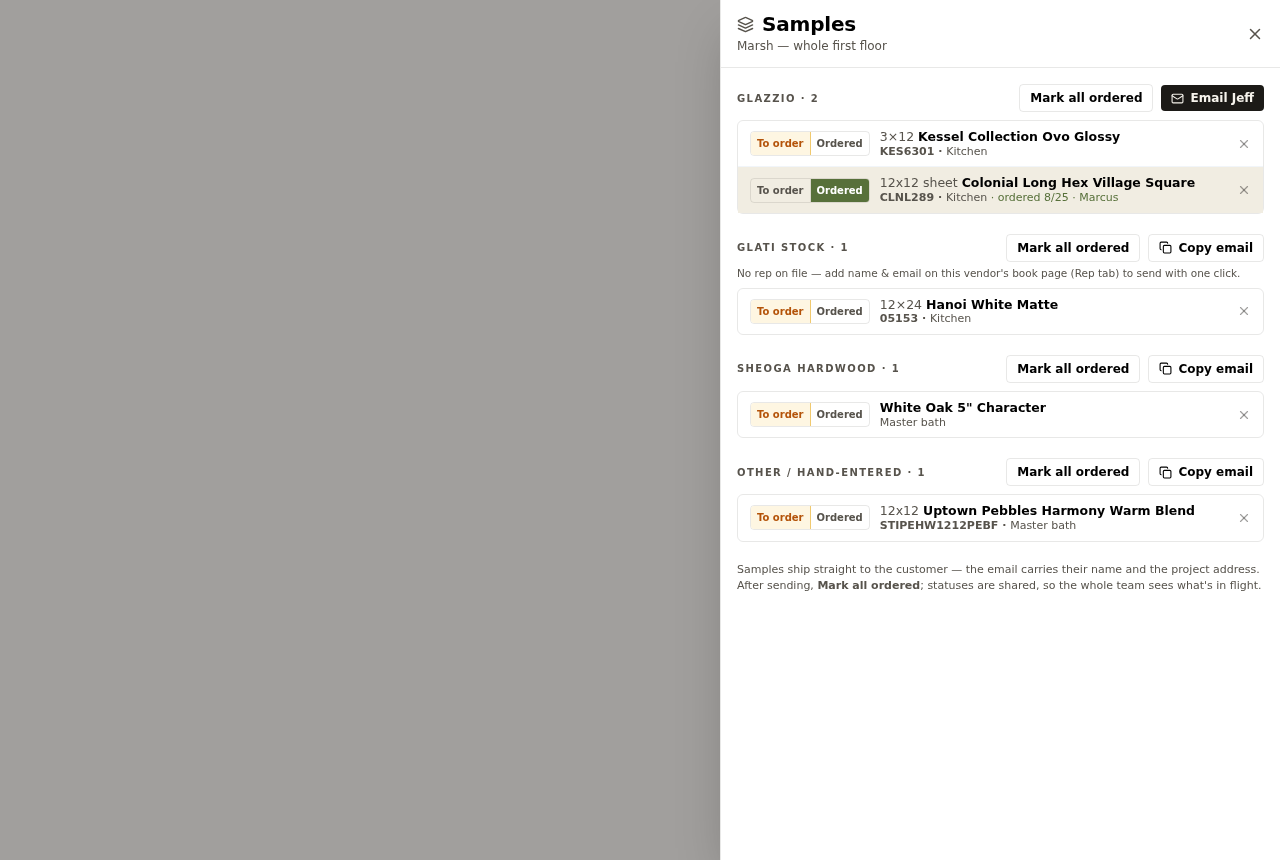
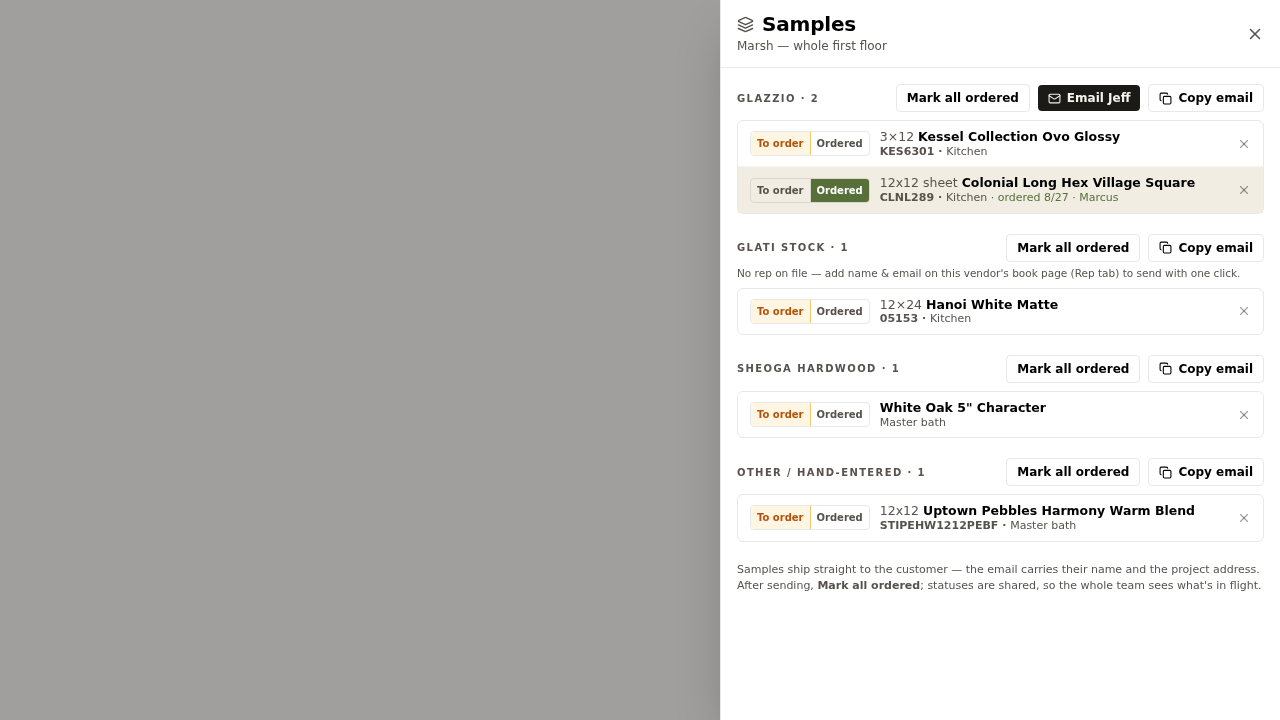
Final review fixes: copy-beside-email, ship-to fallback, projectId rename, mobile Samples tile
Whole-branch review findings 1/2/5/6/7/12 plus two owner calls: the panel
always offers Copy beside the rep mailto (spec §4), ship-to falls back to
the customer's mailing address and warns when there is none, the stored
request field is projectId (renamed while the table is empty), and the
phone's stat strip gains a Samples tile opening the panel.

Claude-Session: https://claude.ai/code/session_01Vet6o8t52237ktyVLVCXcs

diff --git a/src/App.jsx b/src/App.jsx
@@ -9,7 +9,7 @@ import { pricedItem, orderPatch, orderDrift, rowCostSqft, skuKeys } from "./orde
 import { OrderEntryPanel } from "./orderentry.jsx";
 import { isSpecialOrder, nameBudget, orderQty } from "./orderentry.js";
 import { SamplesPanel } from "./samples.jsx";
-import { requestFrom, sampleCounts, custSampleTally, SAMPLE_LABEL, SAMPLE_COLOR } from "./samples.js";
+import { requestFrom, sampleCounts, projectSampleTally, SAMPLE_LABEL, SAMPLE_COLOR } from "./samples.js";
 import { useSamples } from "./usesamples.js";
 import { tierView, tierUnitPrice, employeeNoCost, normPricing } from "./pricing.js";
 import { freightPrintRows, freightOrderRow, freightSummary, freightBookFor, rowFreightOn } from "./freight.js";
@@ -576,8 +576,11 @@ export default function App({ user, onSignOut }) {
   const [flagCtx, setFlagCtx] = useState(null);
   const flaggedRows = useMemo(() => new Set(claudeIssues.filter((i) => !i.done && i.source.productId).map((i) => i.source.productId)), [claudeIssues]);
   // This project's sample requests + a productId lookup for the row icons.
-  const projSamples = useMemo(() => sampleRequests.filter((r) => r.custId === selId), [sampleRequests, selId]);
+  const projSamples = useMemo(() => sampleRequests.filter((r) => r.projectId === selId), [sampleRequests, selId]);
   const sampleByProduct = useMemo(() => new Map(projSamples.map((r) => [r.productId, r])), [projSamples]);
+  // The customer browser's per-project roll-up (F6): recomputed only when the
+  // shared request list actually changes, not on every render of the browser.
+  const sampleTally = useMemo(() => projectSampleTally(sampleRequests), [sampleRequests]);
   const {
     labels, showApps, setShowApps,
     openApps, addLabel, addLabelsBulk, updateLabel, delLabel, saveLabelPreset,
@@ -1581,6 +1584,10 @@ export default function App({ user, onSignOut }) {
                       <button onClick={() => setProjSheet(true)} className={tile}><div className={tLbl}>Print</div><div className={tVal}>{sel.printPricing === "unit" ? "Unit $" : sel.printPricing === "none" ? "No $" : "All $"}</div></button>
                       <button onClick={() => setProjSheet(true)} className={tile}><div className={tLbl}>Files</div><div className={tVal}>{(sel.attachments || []).length}</div></button>
                       <button onClick={() => setShowVersions(true)} className={tile}><div className={tLbl}>Versions</div><div className={tVal}>{sel.versions?.length || 0}</div></button>
+                      <button onClick={() => { setShowSamples(true); refreshSampleRequests(); }} className={tile}>
+                        <div className={tLbl}>Samples</div>
+                        <div className={tVal} style={sampleCounts(projSamples).need > 0 ? { color: "#b45309" } : undefined}>{sampleCounts(projSamples).need || "—"}</div>
+                      </button>
                       {saveOk && <div className={tile}><div className={tLbl}>Sync</div><div className={tVal} style={{ color: "var(--ft-brand)" }}>Saved ✓</div></div>}
                     </div>
                     <MobileSheet open={projSheet} onClose={() => setProjSheet(false)} title={sel.name || "Untitled project"}
@@ -2111,7 +2118,7 @@ export default function App({ user, onSignOut }) {
                               )}
                               <div className="ft-noprint flex items-center justify-center gap-0.5" style={{ background: "var(--ft-area-row)" }}>
                                 {(() => { const sr = sampleByProduct.get(p.id); return sr && (
-                                  <button tabIndex={-1} onClick={() => setShowSamples(true)}
+                                  <button tabIndex={-1} onClick={() => { setShowSamples(true); refreshSampleRequests(); }}
                                     title={`Sample — ${SAMPLE_LABEL[sr.status]}${sr.status === "ordered" && sr.orderedAt ? " " + new Date(sr.orderedAt).toLocaleDateString(undefined, { month: "numeric", day: "numeric" }) : ""}. Click for the Samples panel.`}
                                     className="p-0.5" style={{ color: SAMPLE_COLOR[sr.status] }}><Layers size={11} /></button>
                                 ); })()}
@@ -2637,7 +2644,7 @@ export default function App({ user, onSignOut }) {
         <Suspense fallback={null}>
         <CustomerBrowser people={data.people} projects={data.projects} builders={data.builders}
           myName={profile.name || ""}
-          sampleTally={custSampleTally(sampleRequests)}
+          sampleTally={sampleTally}
           initialCols={appBlobRef.current?.ui?.browserCols}
           onColOrder={(order) => saveUiPref({ browserCols: order })}
           onClose={() => setShowBrowser(false)}
@@ -2909,7 +2916,7 @@ export default function App({ user, onSignOut }) {
         const cust = data.people.find((c) => c.id === sel.customerId);
         return (
           <SamplesPanel name={sel.name} requests={projSamples}
-            custInfo={{ custName: cust?.name || sel.name || "", address: sel.address || "", phone: sel.phone || cust?.phone || "" }}
+            custInfo={{ custName: cust?.name || sel.name || "", address: sel.address || cust?.address || "", phone: sel.phone || cust?.phone || "" }}
             repFor={(g) => books.find((b) => b.id === g.bookId)?.data?.rep || null}
             onOrdered={setSampleOrdered} onRemove={delSampleRequest}
             onClose={() => setShowSamples(false)} />

diff --git a/src/samples.test.js b/src/samples.test.js
@@ -2,7 +2,7 @@ import test from "node:test";
 import assert from "node:assert/strict";
 import { normA } from "./model.js";
 import {
-  normSampleRequest, requestFrom, sampleGroups, sampleCounts, custSampleTally,
+  normSampleRequest, requestFrom, sampleGroups, sampleCounts, projectSampleTally,
   repEmail, mailtoHref, SAMPLE_STATUSES, SAMPLE_LABEL,
 } from "./samples.js";
 
@@ -12,7 +12,7 @@ const BOOKS = [
 ];
 const req = (over = {}) => normSampleRequest({
   id: "r1", status: "need", createdBy: "Dana", createdAt: 1000,
-  custId: "c1", custName: "Kathy Marsh", areaName: "Kitchen", productId: "p1",
+  projectId: "c1", custName: "Kathy Marsh", areaName: "Kitchen", productId: "p1",
   bookId: "b1", bookName: "Glazzio", item: { name: "Calacatta Gold", sku: "CM1224", size: "12×24", type: "tile" },
   ...over,
 });
@@ -32,7 +32,7 @@ test("requestFrom: snapshots the line, resolves the vendor, stamps the creator",
   const product = { id: "p1", type: "tile", sku: "CM1224", brandColor: "Calacatta Gold", L: "12", W: "24", bookId: "b1" };
   const r = requestFrom({ project: { id: "c1" }, custName: "Kathy Marsh", area, areaIndex: 0, product, books: BOOKS, by: "Dana" });
   assert.equal(r.status, "need");
-  assert.equal(r.custId, "c1");
+  assert.equal(r.projectId, "c1");
   assert.equal(r.custName, "Kathy Marsh");
   assert.equal(r.areaName, "Kitchen");
   assert.equal(r.productId, "p1");
@@ -67,14 +67,14 @@ test("sampleGroups: groups by vendor in encounter order, Other last", () => {
   assert.equal(gs[0].bookId, "b1");
 });
 
-test("sampleCounts + custSampleTally", () => {
+test("sampleCounts + projectSampleTally", () => {
   const rows = [
     req({ id: "r1", status: "need" }),
-    req({ id: "r2", status: "ordered", custId: "c2" }),
+    req({ id: "r2", status: "ordered", projectId: "c2" }),
     req({ id: "r3", status: "ordered" }),
   ];
   assert.deepEqual(sampleCounts(rows), { need: 1, ordered: 2, total: 3 });
-  const tally = custSampleTally(rows);
+  const tally = projectSampleTally(rows);
   assert.deepEqual(tally.get("c1"), { need: 1, ordered: 1 });
   assert.deepEqual(tally.get("c2"), { need: 0, ordered: 1 });
   assert.deepEqual(sampleCounts([]), { need: 0, ordered: 0, total: 0 });

diff --git a/src/samples.jsx b/src/samples.jsx
@@ -39,15 +39,14 @@ function VendorGroup({ g, custInfo, rep, onOrdered, onRemove }) {
               Mark all ordered
             </button>
           )}
-          {rep?.email ? (
+          {rep?.email && (
             <a href={mailtoHref(rep.email, mail.subject, mail.body)}
               title={`Opens your mail program addressed to ${rep.email}:\n\n${mail.body}`}
               className="inline-flex items-center gap-1.5 rounded-md px-2.5 py-1 text-[12px] font-semibold bg-indigo-600 hover:bg-indigo-700 text-white">
               <Mail size={13} /> Email {rep.name ? rep.name.trim().split(/\s+/)[0] : "the rep"}
             </a>
-          ) : (
-            <CopyBtn text={mail.body} label="Copy email" />
           )}
+          <CopyBtn text={mail.body} label="Copy email" />
         </div>
       </div>
       {!rep?.email && g.bookId && (
@@ -94,6 +93,9 @@ export function SamplesPanel({ name, requests, custInfo, repFor, onOrdered, onRe
             </p>
           ) : (
             <>
+              {!custInfo.address && (
+                <p className="text-[11px]" style={{ color: "#b45309" }}>No ship-to address on this project — the rep email will have nowhere to send the samples. Add the project (or customer) address first.</p>
+              )}
               {groups.map((g) => <VendorGroup key={g.key} g={g} custInfo={custInfo} rep={repFor(g)} onOrdered={onOrdered} onRemove={onRemove} />)}
               <p className="text-[11px] text-slate-400">
                 Samples ship straight to the customer — the email carries their name and the project address. After sending, <b>Mark all ordered</b>; statuses are shared, so the whole team sees what's in flight.

diff --git a/src/CustomerBrowser.jsx b/src/CustomerBrowser.jsx
@@ -40,8 +40,8 @@ export default function CustomerBrowser({ people, projects, builders, myName, in
   const rows = useMemo(() => browserRows({ people, projects, builders }), [people, projects, builders]);
   const quick = useMemo(() => quickRows(projects, q, salesQ), [projects, q, salesQ]);
   const drafts = useMemo(() => draftRows(projects, q, salesQ), [projects, q, salesQ]);
-  const quickShown = samplesOnly ? quick.filter((p) => (sampleTally.get(p.id)?.need || 0) > 0) : quick;
-  const draftsShown = samplesOnly ? drafts.filter((p) => (sampleTally.get(p.id)?.need || 0) > 0) : drafts;
+  const quickShown = useMemo(() => samplesOnly ? quick.filter((p) => (sampleTally.get(p.id)?.need || 0) > 0) : quick, [quick, samplesOnly, sampleTally]);
+  const draftsShown = useMemo(() => samplesOnly ? drafts.filter((p) => (sampleTally.get(p.id)?.need || 0) > 0) : drafts, [drafts, samplesOnly, sampleTally]);
   const quickCount = useMemo(() => quickRows(projects).length, [projects]);
   const draftCount = useMemo(() => draftRows(projects).length, [projects]);
   const unfiledCount = quickCount + draftCount;
@@ -283,7 +283,7 @@ export default function CustomerBrowser({ people, projects, builders, myName, in
               ))}
             </tbody>
           </table>
-          {flat.length === 0 && <div className="text-center text-sm text-slate-400 mt-10">{q ? "No matches" : "No customers yet"}</div>}
+          {flat.length === 0 && <div className="text-center text-sm text-slate-400 mt-10">{q || samplesOnly ? "No matches" : "No customers yet"}</div>}
         </div>
 
         {/* Project lines for the selected customer — the ERP order-lines panel */}

diff --git a/src/samples.js b/src/samples.js
@@ -30,7 +30,7 @@ export const normSampleRequest = (r) => {
     status: SAMPLE_STATUSES.includes(r.status) ? r.status : "need",
     createdBy: str(r.createdBy), createdAt: r.createdAt || null,
     orderedBy: str(r.orderedBy), orderedAt: r.orderedAt || null,
-    custId: str(r.custId), custName: str(r.custName),
+    projectId: str(r.projectId), custName: str(r.custName),
     areaName: str(r.areaName), productId: str(r.productId),
     bookId: str(r.bookId), bookName: str(r.bookName) || OTHER,
     item: {
@@ -49,7 +49,7 @@ export const requestFrom = ({ project, custName, area, areaIndex, product: p, bo
     : p.sheoga ? "Sheoga Hardwood" : OTHER;
   return normSampleRequest({
     id: uid(), status: "need", createdBy: by, createdAt: Date.now(),
-    custId: project.id, custName: custName || project.name || "",
+    projectId: project.id, custName: custName || project.name || "",
     areaName: areaLabel(area, areaIndex), productId: p.id,
     bookId: book ? book.id : "", bookName,
     item: {
@@ -83,12 +83,12 @@ export const sampleCounts = (requests) => {
 };
 
 // Per-project roll-up for the customer browser's samples column/filter.
-export const custSampleTally = (requests) => {
+export const projectSampleTally = (requests) => {
   const m = new Map();
   for (const r of requests || []) {
-    const t = m.get(r.custId) || { need: 0, ordered: 0 };
+    const t = m.get(r.projectId) || { need: 0, ordered: 0 };
     t[r.status]++;
-    m.set(r.custId, t);
+    m.set(r.projectId, t);
   }
   return m;
 };

diff --git a/src/samplespreview.jsx b/src/samplespreview.jsx
@@ -9,7 +9,7 @@ import { useState } from "react";
 import { createRoot } from "react-dom/client";
 import "./index.css";
 import { SamplesPanel } from "./samples.jsx";
-import { requestFrom, custSampleTally } from "./samples.js";
+import { requestFrom, projectSampleTally } from "./samples.js";
 import { normA } from "./model.js";
 import CustomerBrowser from "./CustomerBrowser.jsx";
 
@@ -48,7 +48,7 @@ const BROWSER_PROJECTS = [
 function BrowserHarness() {
   return (
     <CustomerBrowser people={BROWSER_PEOPLE} projects={BROWSER_PROJECTS} builders={[]}
-      myName="" sampleTally={custSampleTally(SEED)}
+      myName="" sampleTally={projectSampleTally(SEED)}
       onColOrder={() => {}} onClose={() => {}}
       onOpenCustomer={() => {}} onOpenProject={() => {}}
       onNewCustomer={() => {}} onNewProject={() => {}} />

diff --git a/src/bootload.test.js b/src/bootload.test.js
@@ -66,7 +66,7 @@ test("loadProjects falls back to the legacy select when project_no is missing", 
 
 test("loadSampleRequests maps and normalizes rows", async () => {
   const rows = await loadSampleRequests(fakeDb({ sample_requests: [
-    { id: "r1", data: { status: "ordered", custId: "c1", item: { name: "Calacatta", sku: "CM1224" } } },
+    { id: "r1", data: { status: "ordered", projectId: "c1", item: { name: "Calacatta", sku: "CM1224" } } },
     { id: "r2", data: { status: "bogus" } },
   ] }));
   assert.equal(rows.length, 2);

diff --git a/src/custbrowser.js b/src/custbrowser.js
@@ -118,7 +118,7 @@ export function filterBySales(rows, name) {
 }
 
 // Samples roll-up for the browser (spec 2026-08-28): tally is
-// custSampleTally's Map keyed by project id. The filter keeps customers with
+// projectSampleTally's Map keyed by project id. The filter keeps customers with
 // OPEN (to-order) requests — one press answers "what still needs ordering";
 // the column shows both counts so the ordered log reads at a glance.
 export const custSamples = (tally, projs = []) => {

diff --git a/src/headerpreview.jsx b/src/headerpreview.jsx
@@ -39,7 +39,7 @@ function ProjectHeaderDemo() {
       startVersionName={() => setNamingVersion(true)} confirmVersion={() => setNamingVersion(false)}
       openAttachment={noop} delAttachment={noop} addAttachment={noop}
       setShowVersions={noop} setPrintMode={noop} setConfirm={noop} setShowOrderCopy={noop}
-      samples={{ need: 2, ordered: 1, in: 1, open: 3, total: 4 }} onOpenSamples={noop}
+      samples={{ need: 2, ordered: 1, total: 3 }} onOpenSamples={noop}
     />
   );
 }

diff --git a/src/CLAUDE.md b/src/CLAUDE.md
@@ -187,13 +187,13 @@ src/
                     # group-by-salesman over the boot's light rows (custbrowser.test.js).
                     # `custSamples`/`filterBySamples` (spec 2026-08-28) roll a
                     # customer's projects up against the sample_requests tally
-                    # Map (App's `custSampleTally(sampleRequests)`) for the
+                    # Map (App's `projectSampleTally(sampleRequests)`) for the
                     # browser's samples column and filter
   CustomerBrowser.jsx  # the customer browser, a `React.lazy` chunk (ADR 0026):
                     # near-fullscreen ERP-style directory grid — dense customer
                     # rows grouped by salesman over a bottom project-lines panel —
                     # opened from the sidebar's Customers folder (issue 040).
-                    # Takes a `sampleTally` prop (App, `custSampleTally`
+                    # Takes a `sampleTally` prop (App, `projectSampleTally`
                     # re-run on every sampleRequests change): a draggable
                     # Samples column (`sampleChips` — amber "N to order" +
                     # moss "M ordered", shared with the unfiled strips and the
@@ -1367,8 +1367,9 @@ src/
                     # trailing "Other / hand-entered"). `sampleGroups` (rows
                     # grouped by that frozen vendor, Other always last — a
                     # sample order is placed per vendor), `sampleCounts` (the
-                    # header badge), `custSampleTally` (a custId→{need,ordered}
-                    # Map — the browser column/filter's one shared roll-up),
+                    # header badge), `projectSampleTally` (a
+                    # projectId→{need,ordered} Map — the browser column/
+                    # filter's one shared roll-up),
                     # and `repEmail`/`mailtoHref` (the vendor rep's email: item
                     # list + the CUSTOMER as ship-to — samples ship direct —
                     # and deliberately NO salesperson info, owner call
@@ -1404,7 +1405,7 @@ src/
                     # empty state. `?browser=1` mounts the REAL
                     # CustomerBrowser instead, over a second sample-less
                     # customer (Task 8 preview proof — the samples column/
-                    # filter's mock state), fed `sampleTally={custSampleTally(SEED)}`
+                    # filter's mock state), fed `sampleTally={projectSampleTally(SEED)}`
                     # so the filter visibly narrows the grid
   vendorfetch.js    # vendor sheet fetch (ADR 0019): portal-link parse/validate,
                     # bookmarklet source + clipboard hand-off (copies a marked

diff --git a/.scratch/115_sample-ordering/ticket.md b/.scratch/115_sample-ordering/ticket.md
@@ -33,7 +33,7 @@ for the vendor rep contact a request also needs.
 1. **`sample_requests`** (`supabase/samples.sql`, owner runs by hand — a
    pending write path until then, same as every other `supabase/*.sql` file)
    — one row per request, carrying both a snapshot (customer/area/item name,
-   sku, size, type, vendor) and the live ids (`custId`/`productId`/`bookId`)
+   sku, size, type, vendor) and the live ids (`projectId`/`productId`/`bookId`)
    the report/panel need. `status` is `"need"` or `"ordered"` only — v1's
    third "received" state didn't survive the rework (samples.js
    `normSampleRequest`/`requestFrom`, data-model skill updated). Product rows
@@ -48,7 +48,7 @@ for the vendor rep contact a request also needs.
 3. **`src/samples.js` + `samples.jsx`** — `sampleGroups` groups requests by
    the vendor frozen at request time (book brand label/name; Sheoga lines
    under Sheoga; everything else under a trailing "Other"), `sampleCounts`
-   feeds the header badge, `custSampleTally` rolls requests up per customer
+   feeds the header badge, `projectSampleTally` rolls requests up per project
    for the browser. The `SamplesPanel` (order-entry dock shell) is a two-way
    status toggle per line, per-vendor **Mark all ordered**, and **Email the
    rep** — a mailto built from `repEmail`/`mailtoHref` (item list + the
@@ -64,7 +64,7 @@ for the vendor rep contact a request also needs.
    header layouts carry a Samples button badged on any open (need) request.
 6. **Customer browser** — a draggable Samples column (amber "N to order" +
    moss "M ordered" chips, shared `sampleChips`) and a Samples filter button
-   (open = any need > 0), fed `sampleTally={custSampleTally(sampleRequests)}`
+   (open = any need > 0), fed `sampleTally={projectSampleTally(sampleRequests)}`
    from App; chips also show on the unfiled strips and the project-lines
    panel.
 7. **Previews** — `samples-preview.html` (`src/samplespreview.jsx`, stateful,

diff --git a/.claude/skills/floortrack-data-model/SKILL.md b/.claude/skills/floortrack-data-model/SKILL.md
@@ -48,7 +48,7 @@ claude_issue row : { id (text pk), data: { text, done, doneAt, createdBy, create
 
 sample_request row : { id (text pk), data: { status: "need"|"ordered",
                   createdBy, createdAt, orderedBy, orderedAt,
-                  custId, custName, areaName, productId, bookId, bookName,
+                  projectId, custName, areaName, productId, bookId, bookName,
                   item: { name, sku, size, type } } }
                   // sample-ordering workflow (spec 2026-08-28), shared like
                   // todos; snapshot + live ids (the claude_issues doctrine).
